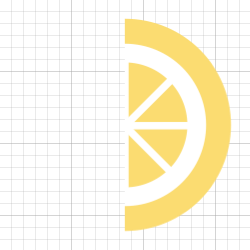
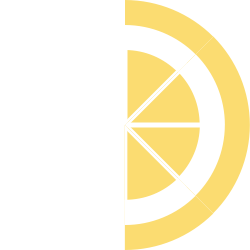
Improvements to Lemon Refresh
Done:
- Fixed error where .png images were not actually transparent.
- Dragging now addes 1/8 of a lemon at a time.

To do:
- make lemon spin immediately upon the last piece being added
- lemon spins way too fast for some reason
- if refreshing, make scrollView inset to minimum to make lemon visible

Changed region(s): [[0.0, 0.0, 1.0, 1.0]]

diff --git a/LemonNotes/Classes/UI Elements/TAPLemonRefreshControl.m b/LemonNotes/Classes/UI Elements/TAPLemonRefreshControl.m
@@ -5,7 +5,8 @@
 
 @interface TAPLemonRefreshControl()
 
-@property (nonatomic) BOOL isRefreshing;
+@property (nonatomic) CGFloat triggerHeight;
+
 @property (nonatomic, strong) NSArray *lemonParts;
 @property (nonatomic, strong) UIImageView *imageView;
 
@@ -26,16 +27,17 @@
  * @note currently frame of imageview is setup manually
  *       should be changed soon for good coding practice.
  */
-- (instancetype)initWithFrame:(CGRect)frame
+- (instancetype)init
 {
-    if (self = [super initWithFrame:frame])
+    if (self = [super init])
     {
+        //UI setup
+        CGSize size = [UIScreen mainScreen].bounds.size;
+        self.frame = CGRectMake(0, 0, size.width, 0);
         self.backgroundColor = [UIColor clearColor];
+        self.clipsToBounds = YES;
         
-        //lemon image
-        CGFloat imageLength = 30;
-        CGFloat frameCenter = (frame.size.width / 2.0)- imageLength/2.0;
-        self.imageView.frame = CGRectMake(frameCenter, 5, imageLength, imageLength);
+        //setup images
         self.lemonParts = @[
             [UIImage imageNamed:@"Lemon Indicator 0.png"],
             [UIImage imageNamed:@"Lemon Indicator 1.png"],
@@ -45,13 +47,20 @@
             [UIImage imageNamed:@"Lemon Indicator 5.png"],
             [UIImage imageNamed:@"Lemon Indicator 6.png"],
             [UIImage imageNamed:@"Lemon Indicator 7.png"],
-            [UIImage imageNamed:@"Lemon Indicator 8.png"],
+            [UIImage imageNamed:@"Lemon Indicator 8.png"]
         ];
-        self.imageView = [[UIImageView alloc] initWithImage:self.lemonParts[8]];
         
-        //other
+        //setu imageview
+        CGFloat imageLength = 40;
+        CGFloat frameCenter = (size.width / 2.0) - (imageLength / 2.0);
+        self.imageView = [[UIImageView alloc] initWithFrame:CGRectMake(frameCenter, 10, imageLength, imageLength)];
+        self.imageView.contentMode = UIViewContentModeScaleAspectFit;
+        self.imageView.image = [self.lemonParts firstObject];
+        [self addSubview:self.imageView];
+        
+        //refresh variables
         self.isRefreshing = NO;
-        [self setClipsToBounds:YES];
+        self.triggerHeight = 150.0f;
     }
     return self;
 }
@@ -80,7 +89,7 @@
         }
     };
     
-    [UIView animateWithDuration:0.3 delay:0 options:UIViewAnimationOptionCurveLinear animations:spin completion:done];
+    [UIView animateWithDuration:1 delay:0 options:UIViewAnimationOptionCurveLinear animations:spin completion:done];
 }
 
 /**
@@ -118,10 +127,22 @@
  */
 - (void)scrollViewDidScroll:(UIScrollView *)scrollView
 {
-    CGFloat offset = scrollView.contentOffset.y;
-    if (offset < 0)
+    CGFloat offsetY = -scrollView.contentOffset.y;
+    if (offsetY > 0)
     {
+        CGSize size = self.frame.size;
+        self.frame = CGRectMake(0, -offsetY, size.width, offsetY);
         
+        if (offsetY >= self.triggerHeight)
+        {
+            [self beginRefreshing];
+        }
+        else if (!self.isRefreshing)
+        {
+            int part = offsetY / (self.triggerHeight / self.lemonParts.count);
+            part = (int)MIN(part, self.lemonParts.count-1);
+            self.imageView.image = self.lemonParts[part];
+        }
     }
 }
 

diff --git a/LemonNotes/Classes/TAPSummonerViewController.m b/LemonNotes/Classes/TAPSummonerViewController.m
@@ -26,7 +26,7 @@
 
 //table
 @property (nonatomic, strong) NSMutableArray* matches;
-@property (nonatomic, strong) TAPLemonRefreshControl* refreshControl;
+@property (nonatomic, strong) TAPLemonRefreshControl* lemonRefresh;
 
 //footer
 @property (nonatomic, weak) IBOutlet UIView* footer;
@@ -141,11 +141,9 @@
     self.matches = [[NSMutableArray alloc] init];
     
     //custom refresh control
-    self.refreshControl = [[TAPLemonRefreshControl alloc] init];
-    self.refreshControl.backgroundColor = [UIColor orangeColor];
-    self.refreshControl.tintColor = [UIColor whiteColor];
-    
-    [self setRefreshControl:self.refreshControl];
+    self.lemonRefresh = [[TAPLemonRefreshControl alloc] init];
+    [self.tableView addSubview:self.lemonRefresh];
+    //[self.tableView sendSubviewToBack:self.refreshControl];
     //[self.refreshControl addTarget:self action:@selector(refresh) forControlEvents:UIControlEventValueChanged];
 }
 
@@ -214,13 +212,21 @@
  */
 - (void)scrollViewDidScroll:(UIScrollView *)scrollView
 {
-    [self.refreshControl scrollViewDidScroll:scrollView];
+    [self.lemonRefresh scrollViewDidScroll:scrollView];
 }
 
 
 - (void)scrollViewDidEndDragging:(UIScrollView *)scrollView willDecelerate:(BOOL)decelerate
 {
-    [self.refreshControl scrollViewDidEndDragging:scrollView];
+    NSLog(@"ended");
+    [self.lemonRefresh scrollViewDidEndDragging:scrollView];
+    
+    if (self.lemonRefresh.isRefreshing)
+    {
+        CGPoint origin = self.tableView.frame.origin;
+        origin.y = -60.0f;
+        [self.tableView setContentOffset:origin animated:YES];
+    }
 }
 
 /**
@@ -396,10 +402,9 @@
         //append loaded matches to matches
         [self.matches addObjectsFromArray:moreMatches];
         [self.tableView reloadData];
-        NSLog(@"");
+        
         if (self.needsUpdate)
         {
-            NSLog(@"%@", moreMatches);
             [self setupHeaderFooter];
             self.needsUpdate = NO;
         }

diff --git a/LemonNotes/Classes/UI Elements/TAPLemonRefreshControl.h b/LemonNotes/Classes/UI Elements/TAPLemonRefreshControl.h
@@ -15,6 +15,8 @@
  */
 @interface TAPLemonRefreshControl : UIControl
 
+@property (nonatomic) BOOL isRefreshing;
+
 - (void)endRefreshing;
 - (void)beginRefreshing;
 - (void)scrollViewDidScroll:(UIScrollView *)scrollView;
